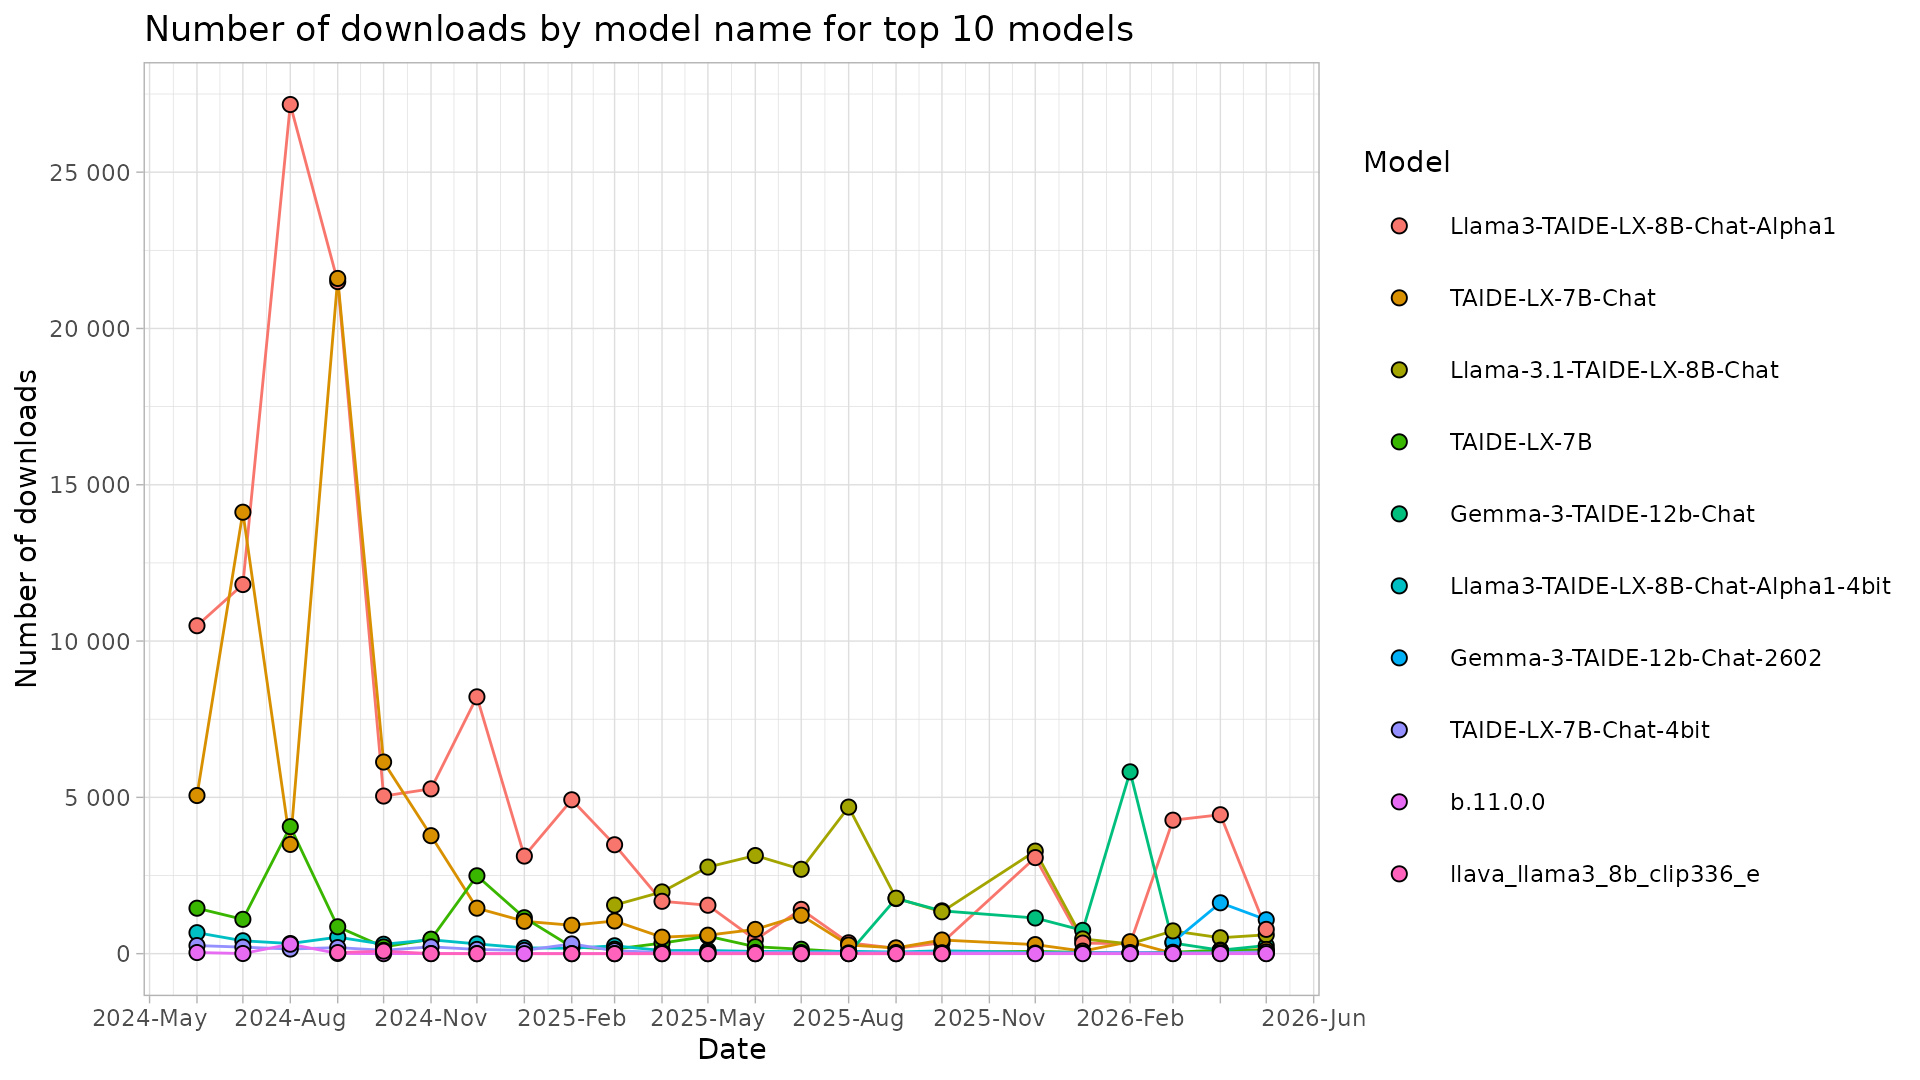
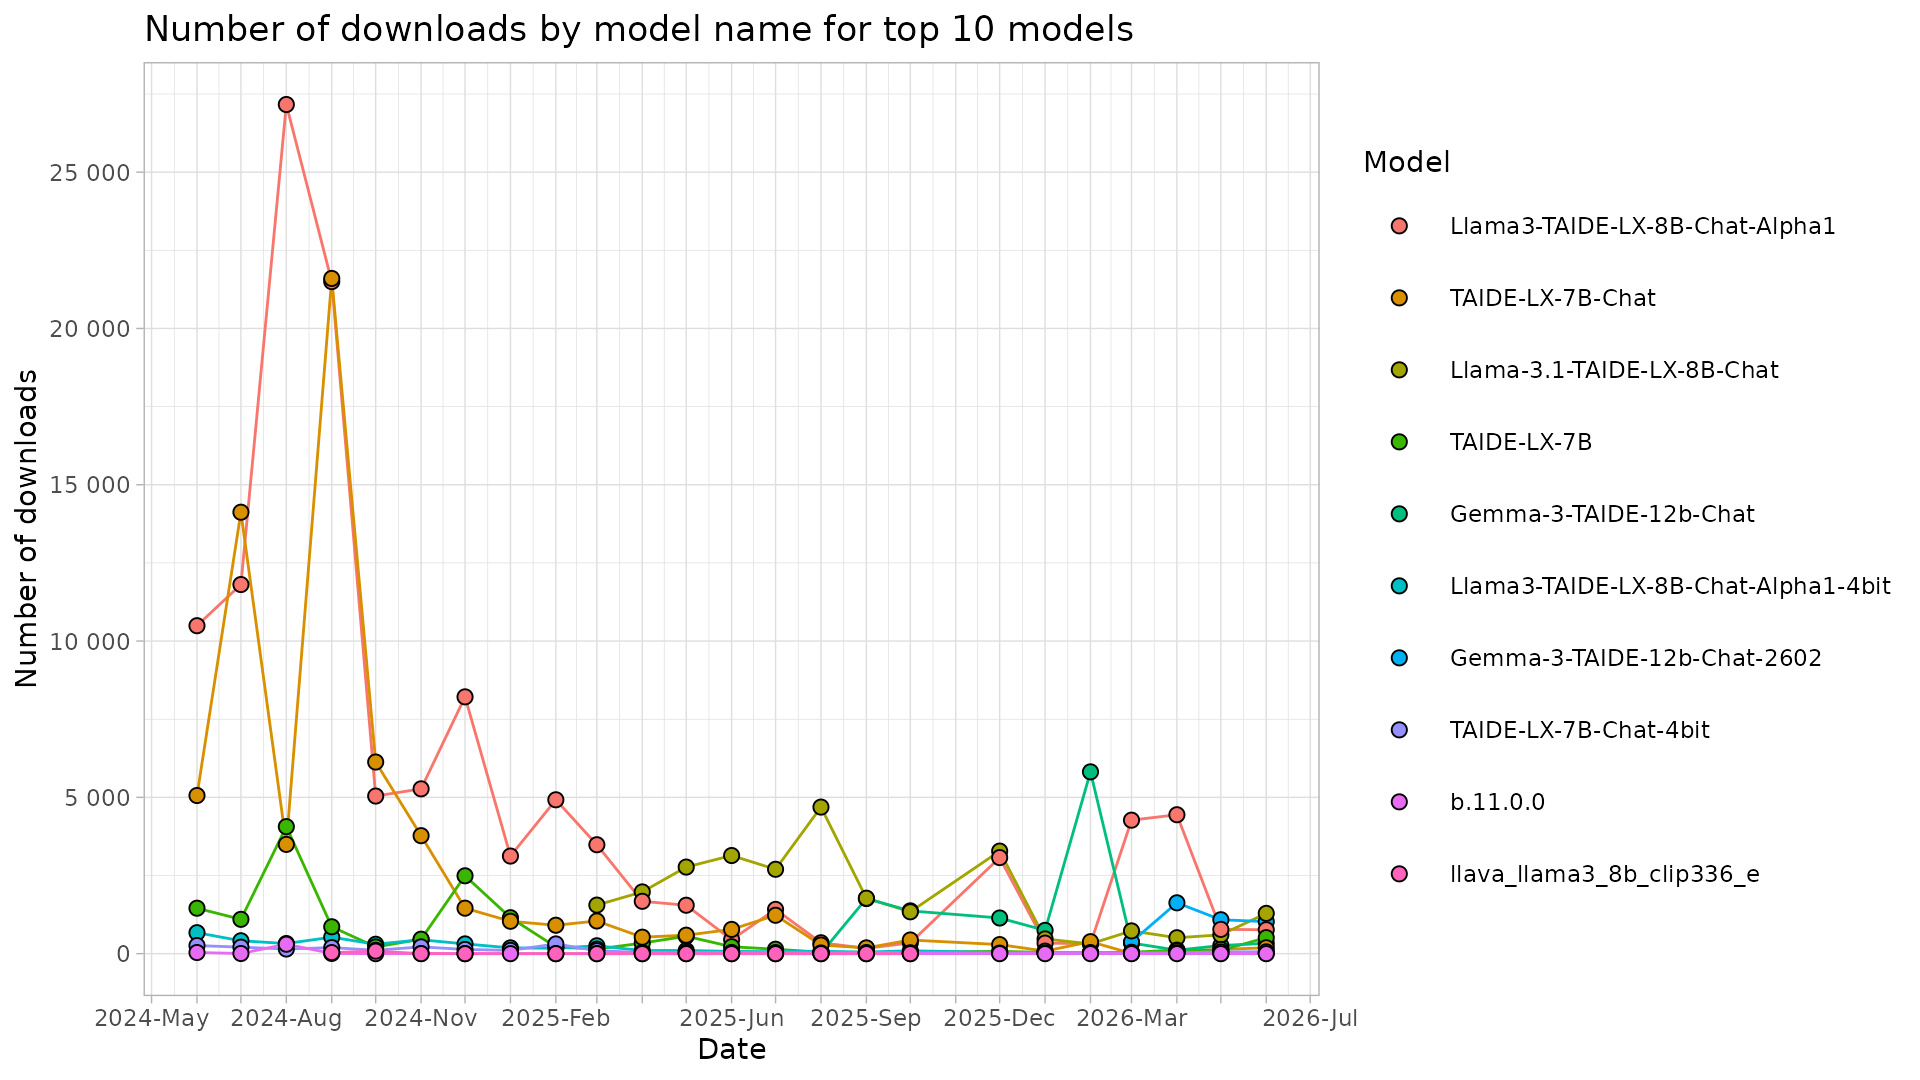
update

Changed region(s): [[0.0938, 0.0917, 0.6875, 0.9472], [0.5938, 0.9167, 0.625, 0.9472], [0.0625, 0.9167, 0.0938, 0.9472]]

diff --git a/README.md b/README.md
@@ -11,18 +11,18 @@ Script is run monthly, and a monthly `csv`-file outputted to `/data` folder.
 !["Huggingface downloads by model plot."](https://github.com/nctu6/huggingface_stats/blob/main/plots/downloads_by_model.jpg)
 
 ## Table of downloads
-|model_name                          | downloadsAllTime| 2026-05| 2026-04| 2026-03| 2026-02| 2026-01| 2025-12| 2025-10| 2025-09| 2025-08| 2025-07| 2025-06| 2025-05| 2025-04| 2025-03| 2025-02| 2025-01| 2024-12| 2024-11| 2024-10| 2024-09| 2024-08| 2024-07| 2024-06|
-|:-----------------------------------|----------------:|-------:|-------:|-------:|-------:|-------:|-------:|-------:|-------:|-------:|-------:|-------:|-------:|-------:|-------:|-------:|-------:|-------:|-------:|-------:|-------:|-------:|-------:|-------:|
-|Llama3-TAIDE-LX-8B-Chat-Alpha1      |           120190|     777|    4444|    4270|     319|     337|    3073|     346|     171|     348|    1416|     446|    1549|    1675|    3484|    4922|    3122|    8215|    5272|    5042|   21499|   27164|   11808|   10491|
-|TAIDE-LX-7B-Chat                    |            63629|     135|      87|       8|     383|      82|     290|     437|     184|     276|    1228|     776|     591|     527|    1045|     909|    1036|    1455|    3774|    6130|   21600|    3495|   14122|    5059|
-|Llama-3.1-TAIDE-LX-8B-Chat          |            25843|     602|     509|     728|     313|     471|    3281|    1339|    1774|    4689|    2699|    3139|    2770|    1975|    1554|       0|       0|       0|       0|       0|       0|       0|       0|       0|
-|TAIDE-LX-7B                         |            13928|     102|     113|      45|      26|      39|      73|      42|      27|      48|     141|     222|     558|     338|     145|     215|    1150|    2491|     463|     215|     860|    4063|    1098|    1454|
-|Gemma-3-TAIDE-12b-Chat              |            11555|     260|     111|     340|    5816|     745|    1141|    1369|    1763|      10|       0|       0|       0|       0|       0|       0|       0|       0|       0|       0|       0|       0|       0|       0|
-|Llama3-TAIDE-LX-8B-Chat-Alpha1-4bit |             4310|       8|      20|      22|      40|      28|      37|      92|      51|      76|      63|      72|     102|      99|     252|     172|     185|     312|     444|     301|     527|     324|     412|     671|
-|Gemma-3-TAIDE-12b-Chat-2602         |             3084|    1085|    1627|     372|       0|       0|       0|       0|       0|       0|       0|       0|       0|       0|       0|       0|       0|       0|       0|       0|       0|       0|       0|       0|
-|TAIDE-LX-7B-Chat-4bit               |             2194|      57|      27|      17|      36|      24|      18|      29|      37|      22|      34|      39|      40|      37|      94|     311|     104|     135|     217|     107|     194|     148|     208|     259|
-|b.11.0.0                            |              355|       0|       0|       0|       0|       0|       0|       0|       0|       0|       0|       0|       0|       0|       0|       0|       0|       0|       5|       0|       7|     302|       5|      36|
-|llava_llama3_8b_clip336_e           |              115|       0|       0|       0|       0|       0|       0|       0|       0|       0|       0|       0|       0|       0|       0|       0|       0|       0|       0|      81|      34|       0|       0|       0|
-|a.2.0.0                             |               24|       0|       0|       0|       0|       0|       0|       0|       0|       0|       0|       0|       0|       0|       0|       0|       0|       0|       0|       0|       0|       0|       0|      24|
-|e.1.1.0                             |               19|       0|       0|       0|       0|       0|       0|       0|       0|       0|       0|       0|       0|       0|       0|       0|       0|       0|       0|       0|       0|       5|       0|      14|
-|b.1.0.0                             |               15|       0|       0|       0|       0|       0|       0|       0|       0|       0|       0|       0|       0|       0|       0|       0|       0|       0|       0|       0|       0|       0|      15|       0|
+|model_name                          | downloadsAllTime| 2026-06| 2026-05| 2026-04| 2026-03| 2026-02| 2026-01| 2025-12| 2025-10| 2025-09| 2025-08| 2025-07| 2025-06| 2025-05| 2025-04| 2025-03| 2025-02| 2025-01| 2024-12| 2024-11| 2024-10| 2024-09| 2024-08| 2024-07| 2024-06|
+|:-----------------------------------|----------------:|-------:|-------:|-------:|-------:|-------:|-------:|-------:|-------:|-------:|-------:|-------:|-------:|-------:|-------:|-------:|-------:|-------:|-------:|-------:|-------:|-------:|-------:|-------:|-------:|
+|Llama3-TAIDE-LX-8B-Chat-Alpha1      |           120955|     765|     777|    4444|    4270|     319|     337|    3073|     346|     171|     348|    1416|     446|    1549|    1675|    3484|    4922|    3122|    8215|    5272|    5042|   21499|   27164|   11808|   10491|
+|TAIDE-LX-7B-Chat                    |            63817|     188|     135|      87|       8|     383|      82|     290|     437|     184|     276|    1228|     776|     591|     527|    1045|     909|    1036|    1455|    3774|    6130|   21600|    3495|   14122|    5059|
+|Llama-3.1-TAIDE-LX-8B-Chat          |            27132|    1289|     602|     509|     728|     313|     471|    3281|    1339|    1774|    4689|    2699|    3139|    2770|    1975|    1554|       0|       0|       0|       0|       0|       0|       0|       0|       0|
+|TAIDE-LX-7B                         |            14440|     512|     102|     113|      45|      26|      39|      73|      42|      27|      48|     141|     222|     558|     338|     145|     215|    1150|    2491|     463|     215|     860|    4063|    1098|    1454|
+|Gemma-3-TAIDE-12b-Chat              |            11886|     331|     260|     111|     340|    5816|     745|    1141|    1369|    1763|      10|       0|       0|       0|       0|       0|       0|       0|       0|       0|       0|       0|       0|       0|       0|
+|Llama3-TAIDE-LX-8B-Chat-Alpha1-4bit |             4324|      14|       8|      20|      22|      40|      28|      37|      92|      51|      76|      63|      72|     102|      99|     252|     172|     185|     312|     444|     301|     527|     324|     412|     671|
+|Gemma-3-TAIDE-12b-Chat-2602         |             4109|    1025|    1085|    1627|     372|       0|       0|       0|       0|       0|       0|       0|       0|       0|       0|       0|       0|       0|       0|       0|       0|       0|       0|       0|       0|
+|TAIDE-LX-7B-Chat-4bit               |             2253|      59|      57|      27|      17|      36|      24|      18|      29|      37|      22|      34|      39|      40|      37|      94|     311|     104|     135|     217|     107|     194|     148|     208|     259|
+|b.11.0.0                            |              355|       0|       0|       0|       0|       0|       0|       0|       0|       0|       0|       0|       0|       0|       0|       0|       0|       0|       0|       5|       0|       7|     302|       5|      36|
+|llava_llama3_8b_clip336_e           |              115|       0|       0|       0|       0|       0|       0|       0|       0|       0|       0|       0|       0|       0|       0|       0|       0|       0|       0|       0|      81|      34|       0|       0|       0|
+|a.2.0.0                             |               24|       0|       0|       0|       0|       0|       0|       0|       0|       0|       0|       0|       0|       0|       0|       0|       0|       0|       0|       0|       0|       0|       0|       0|      24|
+|e.1.1.0                             |               19|       0|       0|       0|       0|       0|       0|       0|       0|       0|       0|       0|       0|       0|       0|       0|       0|       0|       0|       0|       0|       0|       5|       0|      14|
+|b.1.0.0                             |               15|       0|       0|       0|       0|       0|       0|       0|       0|       0|       0|       0|       0|       0|       0|       0|       0|       0|       0|       0|       0|       0|       0|      15|       0|
